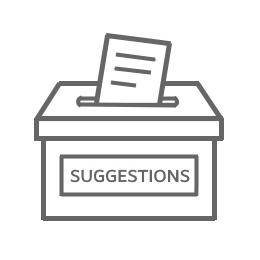
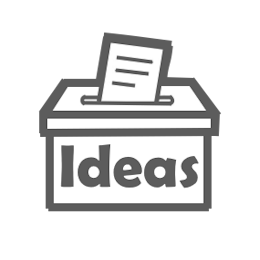
Added button for the future suggestions box (not currently working)

Changed region(s): [[0.1231, 0.1231, 0.8615, 0.8615]]

diff --git a/ebryit_web_center.html b/ebryit_web_center.html
@@ -88,12 +88,23 @@
             right: 10px;
             z-index: 1000;
         }
-
         .settings-fab img {
             display: block;
             border-radius: 50%;
             border: 2px solid #757a80;
         }
+        .left-fab {
+            position: fixed;
+            bottom: 10px;
+            left: 10px;
+            z-index: 1000;
+        }
+        .left-fab img {
+            display: block;
+            border-radius: 50%;
+            border: 2px solid #757a80;
+        }
+
     </style>
 </head>
 <body>
@@ -137,6 +148,9 @@
     </nav>
 </body>
 <footer>
+     <a href="home.html" id="left-link" class="left-fab">
+        <img src="images/Suggestions_box.png" alt="home-tools" width="50" height="50" style="background-color: #fafbfc;">
+    </a>
     <a href="admin.html" target="_blank" id="admin-link" class="settings-fab">
         <img src="images/settings.png" alt="admin-tools" width="50" height="50" style="background-color: #fafbfc;">
     </a>
